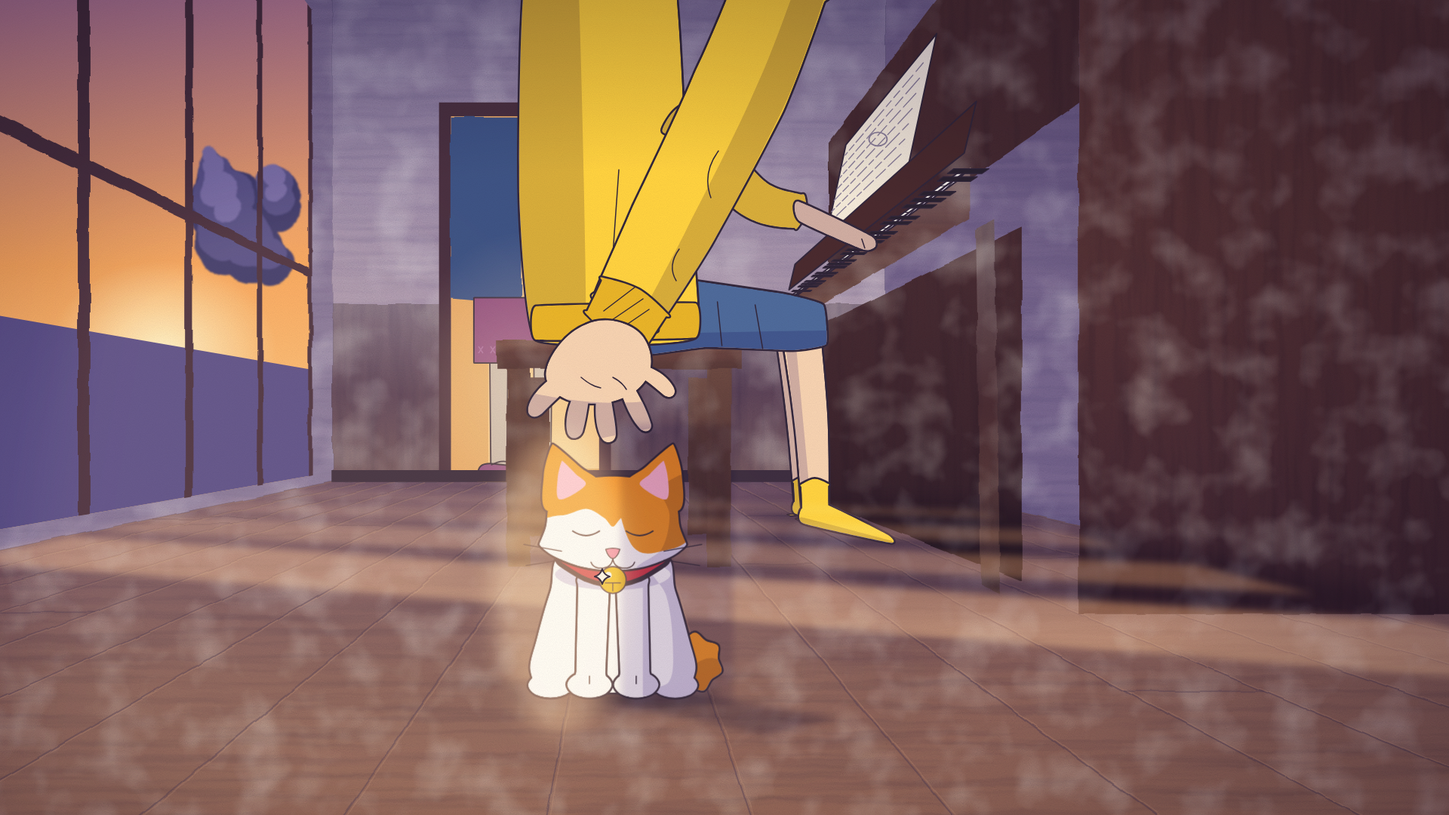
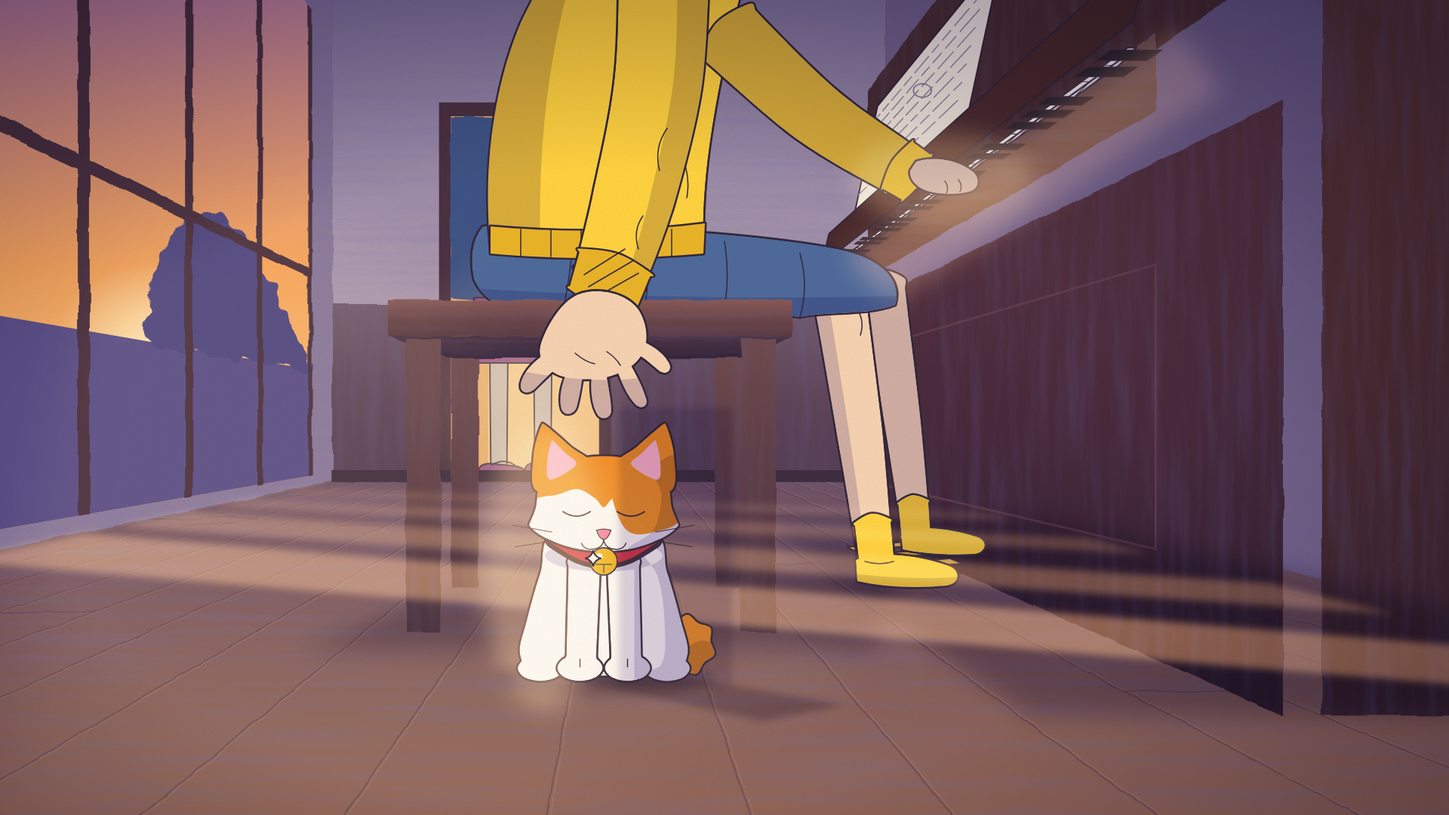
docs: final preview frames after art-director fix pass, gallery page
Claude-Session: https://claude.ai/code/session_01K9BzCtu5ca2nRxDXecreHZ

diff --git a/design/previews/10-home-evening.html b/design/previews/10-home-evening.html
@@ -23,7 +23,12 @@ const K = Kit, C = K.C, W = 1920, H = 1080, HZ = 560, F = 1100, CX = 820, EYE = 
 const P = (X, Y, d) => [CX + X * F / d, HZ - (Y - EYE) * F / d];
 const pd = (pts) => 'M' + pts.map((p) => { const q = P(...p); return q[0].toFixed(1) + ' ' + q[1].toFixed(1); }).join('L') + 'Z';
 const G = { lw: 2.5, ol: K.OUTLINES.ink };
-const paint = (pts, color, o) => K.surface(Object.assign({ d: pd(pts), box: (() => { const q = pts.map((p) => P(...p)); const xs = q.map((p) => p[0]), ys = q.map((p) => p[1]); return { x: Math.min(...xs), y: Math.min(...ys), w: Math.max(...xs) - Math.min(...xs), h: Math.max(...ys) - Math.min(...ys) }; })(), color, grime: 0, tex: 'brush', texOpacity: 0.22, wobble: true }, o || {}));
+let _pid = 0;
+/** Painted, unlined surface: vertical gradient + brush grain + hand wobble (E-1/E-2). */
+const paint = (pts, color, o) => { o = o || {}; const q = pts.map((p) => P(...p)); const ys = q.map((p) => p[1]), xs = q.map((p) => p[0]);
+  const y0 = Math.min(...ys), y1 = Math.max(...ys), x0 = Math.min(...xs), x1 = Math.max(...xs), id = 'pg' + (++_pid), d = pd(pts);
+  const g = `<linearGradient id="${id}" gradientUnits="userSpaceOnUse" x1="0" y1="${y0}" x2="0" y2="${y1}"><stop offset="0" stop-color="${o.top || K.mix(color, '#FFFFFF', 0.12)}"/><stop offset="0.55" stop-color="${color}"/><stop offset="1" stop-color="${o.bottom || K.mix(color, '#2A2040', 0.2)}"/></linearGradient>`;
+  return `<g filter="url(#k-rough)">${g}<path d="${d}" fill="url(#${id})"/>${K.clipTo(d, K.texture(x0 - 10, y0 - 10, x1 - x0 + 20, y1 - y0 + 20, o.tex || 'brush', o.texOpacity == null ? 0.2 : o.texOpacity) + K.texture(x0 - 10, y0 - 10, x1 - x0 + 20, y1 - y0 + 20, 'grain', 0.12))}</g>`; };
 const s = [];
 const LW = -1.45, RW = 1.35, BW = 4.2;   // left wall, right wall (X), back wall (d)
 
@@ -56,7 +61,7 @@ s.push(`<linearGradient id="dusk" x1="0" y1="0" x2="0" y2="1"><stop offset="0" s
 s.push(`<path d="${pd([[LW, 2.25, gz0], [LW, 2.25, gz1], [LW, 0.05, gz1], [LW, 0.05, gz0]])}" fill="url(#dusk)"/>`);
 { const a = P(LW, 0.5, 2.6); s.push(K.glow(a[0] + 10, a[1] - 10, 150, 120, '#FFE2A8', 0.9)); }                      // the low sun
 s.push(`<path d="${pd([[LW, 0.55, gz0], [LW, 0.55, gz1], [LW, 0.05, gz1], [LW, 0.05, gz0]])}" fill="#5A4E86"/>`);           // garden wall, blue
-{ const a = P(LW, 1.1, 3.2); s.push(K.foliage({ x: a[0], y: a[1], w: 170, h: 200, seed: 7, far: true, tones: { dark: '#3E3A6A', mid: '#575086', light: '#7A6EA6' } })); }
+{ const q = [[LW, 0.55, 2.55], [LW, 0.82, 2.62], [LW, 1.0, 2.8], [LW, 1.06, 3.05], [LW, 0.98, 3.3], [LW, 0.86, 3.5], [LW, 0.7, 3.7], [LW, 0.55, 3.85]].map((p) => P(...p)); s.push(`<path d="${K.blob(q, true, 0.5)}" fill="#4E4680" filter="url(#k-leaf)"/>`); }
 let gf = ''; for (let i = 0; i <= 4; i++) { const z = gz0 + (gz1 - gz0) * i / 4; gf += `<path d="${pd([[LW, 2.25, z - 0.025], [LW, 2.25, z + 0.025], [LW, 0.05, z + 0.025], [LW, 0.05, z - 0.025]])}" fill="#4A3040"/>`; }
 gf += `<path d="${pd([[LW, 1.02, gz0], [LW, 1.02, gz1], [LW, 0.98, gz1], [LW, 0.98, gz0]])}" fill="#4A3040"/>`;
 s.push(`<g filter="url(#k-rough)">${gf}</g>`);
@@ -72,21 +77,22 @@ s.push(`<path d="${pd([[LW, 0.06, BW - 0.01], [RW, 0.06, BW - 0.01], [RW, 0, BW 
 
 /* right wall + the upright piano against it, keyboard facing us-left (painted case; lid and keys inked) */
 s.push(paint([[RW, 2.6, 0.6], [RW, 2.6, BW], [RW, 0, BW], [RW, 0, 0.6]], '#6E5E84', { top: '#5A4E74', bottom: '#7A6890' }));
-const PF = 0.72, KF = 0.58, PZ0 = 1.3, PZ1 = 2.85;   // piano front face X, key front X, near/far ends (d)
+const PF = 0.72, KF = 0.58, PZ0 = 0.85, PZ1 = 2.4;   // piano front face X, key front X, near/far ends (d)
 // case: near side panel, front faces, top
 s.push(paint([[PF, 1.26, PZ0], [RW, 1.26, PZ0], [RW, 0, PZ0], [PF, 0, PZ0]], '#5A3436', { top: '#6E4240', bottom: '#3E2430', tex: 'brush-v', texOpacity: 0.3 }));
 s.push(paint([[PF, 1.26, PZ0], [PF, 1.26, PZ1], [PF, 0.8, PZ1], [PF, 0.8, PZ0]], '#4E2E34', { top: '#5E3838', bottom: '#40262E', tex: 'brush-v', texOpacity: 0.25 }));
-s.push(paint([[PF - 0.06, 0.62, PZ0 + 0.06], [PF - 0.06, 0.62, PZ1 - 0.06], [PF - 0.06, 0.04, PZ1 - 0.06], [PF - 0.06, 0.04, PZ0 + 0.06]], '#40262E', { top: '#4A2C32', bottom: '#2E1C28', tex: 'brush-v', texOpacity: 0.25 }));
+s.push(paint([[PF - 0.04, 0.63, PZ0], [PF - 0.04, 0.63, PZ1], [PF - 0.04, 0, PZ1], [PF - 0.04, 0, PZ0]], '#46283A', { top: '#5A3440', bottom: '#2E1C2C', tex: 'brush-v', texOpacity: 0.25 }));
+s.push(`<path d="${pd([[PF - 0.041, 0.5, PZ0 + 0.2], [PF - 0.041, 0.5, PZ1 - 0.15], [PF - 0.041, 0.14, PZ1 - 0.15], [PF - 0.041, 0.14, PZ0 + 0.2]])}" fill="none" stroke="#6A4250" stroke-width="3" opacity="0.7"/>`);
 // the keybed slab under the keys
 s.push(paint([[KF - 0.03, 0.7, PZ0], [KF - 0.03, 0.7, PZ1], [KF - 0.03, 0.62, PZ1], [KF - 0.03, 0.62, PZ0]], '#5E3A3A', { tex: 'brush', texOpacity: 0.2 }));
 // legs at the treble and bass ends
-[PZ0 + 0.04, PZ1 - 0.04].forEach((d) => s.push(paint([[KF + 0.01, 0.62, d - 0.035], [KF + 0.01, 0.62, d + 0.035], [KF + 0.02, 0.03, d + 0.035], [KF + 0.02, 0.03, d - 0.035]], '#4A2C32', { tex: 'brush-v' })));
+
 // music stand + the Scribble score with a pencil circle on one bar
-{ const sp = [[PF - 0.05, 1.12, 1.75], [PF - 0.05, 1.12, 2.45], [PF - 0.11, 0.84, 2.45], [PF - 0.11, 0.84, 1.75]];
+{ const sp = [[PF - 0.05, 1.12, 1.45], [PF - 0.05, 1.12, 2.15], [PF - 0.11, 0.84, 2.15], [PF - 0.11, 0.84, 1.45]];
   s.push(K.inked(pd(sp), '#F4EAD8', 2));
   let sm = ''; const R = K.rng(17);
-  for (let r = 0; r < 7; r++) { const y = 1.08 - r * 0.033; let d = 1.8; while (d < 2.4) { const l = 0.03 + R() * 0.07, a = P(PF - 0.06 - r * 0.008, y, d), b = P(PF - 0.06 - r * 0.008, y, Math.min(2.42, d + l)); sm += `<path d="M${a[0].toFixed(1)} ${a[1].toFixed(1)}L${b[0].toFixed(1)} ${b[1].toFixed(1)}" stroke="#8C8098" stroke-width="1.4" stroke-linecap="round"/>`; d += l + 0.02; } }
-  const pc = P(PF - 0.08, 1.0, 2.05); sm += `<ellipse cx="${pc[0]}" cy="${pc[1]}" rx="12" ry="9" fill="none" stroke="#8C8098" stroke-width="1.8"/>`;
+  for (let r = 0; r < 7; r++) { const y = 1.08 - r * 0.033; let d = 1.5; while (d < 2.1) { const l = 0.03 + R() * 0.07, a = P(PF - 0.06 - r * 0.008, y, d), b = P(PF - 0.06 - r * 0.008, y, Math.min(2.12, d + l)); sm += `<path d="M${a[0].toFixed(1)} ${a[1].toFixed(1)}L${b[0].toFixed(1)} ${b[1].toFixed(1)}" stroke="#8C8098" stroke-width="1.4" stroke-linecap="round"/>`; d += l + 0.02; } }
+  const pc = P(PF - 0.08, 1.0, 1.75); sm += `<ellipse cx="${pc[0]}" cy="${pc[1]}" rx="12" ry="9" fill="none" stroke="#8C8098" stroke-width="1.8"/>`;
   s.push(sm); }
 // fallboard (open), keys: inked — the only inked parts of the piano (L-1)
 s.push(K.inked(pd([[PF - 0.13, 0.83, PZ0 + 0.07], [PF - 0.13, 0.83, PZ1 - 0.07], [PF - 0.15, 0.745, PZ1 - 0.07], [PF - 0.15, 0.745, PZ0 + 0.07]]), '#4A2A2E', 2));
@@ -99,65 +105,65 @@ s.push(keys);
 // shadow pooled under the piano (Shadow Wisteria, never grey)
 s.push(K.castShadow(pd([[PF - 0.3, 0, PZ0], [RW, 0, PZ0], [RW, 0, PZ1 + 0.2], [PF - 0.3, 0, PZ1 + 0.2]]), 0.5, 'soft2'));
 // the pedals, brass, catching a little light
-[1.95, 2.05, 2.15].forEach((d) => s.push(K.inked(pd([[KF - 0.02, 0.07, d - 0.025], [KF - 0.02, 0.07, d + 0.025], [KF - 0.14, 0.06, d + 0.02], [KF - 0.14, 0.06, d - 0.02]]), '#C99A4A', 1.6)));
+[1.38, 1.48, 1.58].forEach((d) => s.push(K.inked(pd([[KF - 0.02, 0.07, d - 0.025], [KF - 0.02, 0.07, d + 0.025], [KF - 0.14, 0.06, d + 0.02], [KF - 0.14, 0.06, d - 0.02]]), '#C99A4A', 1.6)));
 
-/* the piano bench (painted wood), Haru sitting side-on to us */
-const BX0 = -0.25, BX1 = 0.25, BD0 = 1.7, BD1 = 2.25, BY = 0.47;
-s.push(K.castShadow(pd([[BX0 - 0.1, 0, BD0 - 0.1], [BX1 + 0.1, 0, BD0 - 0.1], [BX1 + 0.3, 0, BD1 + 0.2], [BX0, 0, BD1 + 0.2]]), 0.5, 'soft2'));
-[[BX0 + 0.04, BD0 + 0.04], [BX1 - 0.04, BD0 + 0.04], [BX0 + 0.04, BD1 - 0.04], [BX1 - 0.04, BD1 - 0.04]].sort((a, b) => b[1] - a[1]).forEach(([x, d]) => s.push(paint([[x - 0.025, BY - 0.05, d], [x + 0.025, BY - 0.05, d], [x + 0.025, 0, d], [x - 0.025, 0, d]], '#5A3A38', { tex: 'brush-v', top: '#6E4A42', bottom: '#4A2E30' })));
-s.push(paint([[BX0, BY - 0.06, BD0], [BX1, BY - 0.06, BD0], [BX1, BY, BD0], [BX0, BY, BD0]], '#6A4440', { top: '#8A5E50', bottom: '#5A3A38' }));
+/* the piano bench (painted wood), Haru sitting side-on to us; we look up at its underside */
+const BX0 = -0.32, BX1 = 0.24, BD0 = 1.15, BD1 = 1.55, BY = 0.47;
+s.push(K.castShadow(pd([[BX0 - 0.1, 0, BD0 - 0.05], [BX1 + 0.1, 0, BD0 - 0.05], [BX1 + 0.35, 0, BD1 + 0.2], [BX0 + 0.1, 0, BD1 + 0.2]]), 0.5, 'soft2'));
+const benchLeg = (x, d) => paint([[x - 0.025, BY - 0.05, d], [x + 0.025, BY - 0.05, d], [x + 0.025, 0, d], [x - 0.025, 0, d]], '#5A3A44', { tex: 'brush-v', top: '#6E4A4C', bottom: '#3E2838' });
+s.push(benchLeg(BX0 + 0.04, BD1 - 0.04) + benchLeg(BX1 - 0.04, BD1 - 0.04));
+s.push(paint([[BX0, BY - 0.05, BD0], [BX1, BY - 0.05, BD0], [BX1, BY - 0.05, BD1], [BX0, BY - 0.05, BD1]], '#3E2A3C', { top: '#4A3242', bottom: '#33243A' }));   // underside, in shade
 
-/* =============================== Haru: legs, hem, hands (inked cels) =============================== */
+/* =============================== Haru: legs, hem, hands (inked cels, hand-drawn on the projected anchors) =============================== */
 const HP = { skin: '#F6D2B0', card: C.haru, cardS: '#E9B428', skirt: '#4E6A9A', sock: C.haru };
-const A = (X, Y, d) => P(X, Y, d);
-// far (right) leg: shin down to the foot resting on the soft pedal, partly behind the near leg
-{ const k = A(0.44, 0.5, 2.08), an = A(0.47, 0.09, 2.08), ft = A(0.56, 0.04, 2.08);
-  s.push(K.celGroup({ parts: [{ d: K.tube([k, [(k[0] + an[0]) / 2 + 3, (k[1] + an[1]) / 2], an], [46, 40, 30], { capRound: 0.5 }), fill: HP.skin }], shadeAll: true }, G));
-  s.push(K.celGroup({ parts: [{ d: K.tube([[an[0] - 1, an[1] - 34], an], [32, 30], { capRound: 0.4 }), fill: HP.sock }, { d: K.blob([[an[0] - 16, an[1] - 6], [an[0] + 10, an[1] - 12], [ft[0] + 18, ft[1] - 8], [ft[0] + 22, ft[1] + 2], [an[0] - 14, an[1] + 10]], true, 0.5), fill: HP.sock }], shadeAll: true }, G)); }
-// skirt over the thighs, hem at the knee; near leg: knee, shin, yellow sock, foot flat on the boards
-{ const hip = A(-0.02, 0.52, 1.95), kn = A(0.42, 0.52, 1.92), an = A(0.45, 0.09, 1.9), ft = A(0.58, 0.03, 1.9);
-  s.push(K.celGroup({ parts: [{ d: K.tube([kn, [(kn[0] + an[0]) / 2 + 4, (kn[1] + an[1]) / 2], an], [52, 44, 34], { capRound: 0.5 }), fill: HP.skin }], shade: K.tube([[kn[0] - 14, kn[1] + 10], [an[0] - 10, an[1]]], [14, 10]), lines: [K.blob([[kn[0] + 12, kn[1] + 4], [kn[0] + 16, kn[1] + 18]], false)] }, G));
-  s.push(K.celGroup({ parts: [{ d: K.tube([[an[0] - 1, an[1] - 40], an], [36, 34], { capRound: 0.4 }), fill: HP.sock }, { d: K.blob([[an[0] - 18, an[1] - 8], [an[0] + 12, an[1] - 14], [ft[0] + 20, ft[1] - 8], [ft[0] + 24, ft[1] + 3], [an[0] - 16, an[1] + 12]], true, 0.5), fill: HP.sock }], shade: K.blob([[an[0] - 18, an[1] + 4], [ft[0] + 24, ft[1]], [ft[0] + 24, ft[1] + 6], [an[0] - 18, an[1] + 14]], true, 0.3) }, G));
-  // the skirt: navy-blue pleats from the seat to just past the knee
-  const sk = [[hip[0] - 40, hip[1] - 80], [kn[0] - 30, kn[1] - 46], [kn[0] + 30, kn[1] - 30], [kn[0] + 34, kn[1] + 22], [kn[0] - 10, kn[1] + 30], [(hip[0] + kn[0]) / 2, kn[1] + 26], [hip[0] - 30, hip[1] + 40]];
-  s.push(K.celGroup({ parts: [{ d: K.blob(sk, true, 0.35), fill: HP.skirt }], shade: K.blob([[hip[0] - 60, hip[1] + 10], [kn[0] + 40, kn[1] + 4], [kn[0] + 40, kn[1] + 40], [hip[0] - 60, hip[1] + 50]], true, 0.2), lines: [K.blob([[kn[0] - 60, kn[1] - 30], [kn[0] - 50, kn[1] + 28]], false), K.blob([[kn[0] - 110, kn[1] - 34], [kn[0] - 104, kn[1] + 24]], false)] }, G)); }
-// her torso rises out of frame; only the cardigan's lower back and hip show above the bench
-{ const t = [A(-0.2, 0.5, 2.0), A(0.18, 0.5, 1.95), A(0.16, 0.85, 1.95), A(0.12, 1.4, 1.95), A(-0.22, 1.4, 2.0), A(-0.24, 0.85, 2.0)];
-  s.push(K.celGroup({ parts: [{ d: K.blob(t, true, 0.35), fill: HP.card }], shade: K.blob([A(-0.24, 0.5, 2.0), A(-0.08, 0.5, 2.0), A(-0.1, 1.4, 2.0), A(-0.26, 1.4, 2.0)], true, 0.2), lines: [K.blob([A(-0.02, 0.62, 1.98), A(0.0, 0.9, 1.97)], false)] }, G));
-  s.push(K.celGroup({ parts: [{ d: K.blob([A(-0.2, 0.58, 2.0), A(0.18, 0.58, 1.95), A(0.18, 0.5, 1.95), A(-0.2, 0.5, 2.0)], true, 0.2), fill: HP.cardS }] }, G)); }
-// far hand still resting on the keys: the Piece has paused mid-phrase
-{ const w = A(0.45, 0.82, 2.05), h0 = A(0.62, 0.745, 2.08);
-  s.push(K.celGroup({ parts: [{ d: K.tube([A(0.15, 1.05, 2.02), A(0.32, 0.86, 2.04), w], [62, 54, 44], { capRound: 0.3 }), fill: HP.card }], shadeAll: true }, G));
-  s.push(K.celGroup({ parts: [{ d: K.blob([[w[0] - 4, w[1] - 14], [h0[0] + 6, h0[1] - 12], [h0[0] + 12, h0[1] + 2], [h0[0] - 4, h0[1] + 6], [w[0] - 2, w[1] + 12]], true, 0.5), fill: HP.skin }], shadeAll: true, lines: [K.blob([[h0[0] - 6, h0[1] - 8], [h0[0] - 2, h0[1] + 4]], false)] }, G)); }
-// near arm: down out of the top of frame, foreshortened toward us, the hand open, palm-down, slowing above Mikan
-const hand = { x: 780, y: 470 };
-s.push(K.celGroup({ parts: [{ d: K.tube([[1040, -30], [980, 120], [890, 300], [826, 418]], [120, 128, 116, 92], { capRound: 0.3 }), fill: HP.card }],
-  shade: K.tube([[1080, -30], [1024, 120], [934, 300], [866, 420]], [40, 44, 40, 30]), lines: ['M952 200Q930 230 942 262', 'M900 330Q884 352 896 372'] }, G));
-s.push(K.celGroup({ parts: [{ d: K.tube([[842, 392], [816, 438]], [98, 90], { capRound: 0.2 }), fill: HP.cardS }], lines: ['M800 412L842 380', 'M808 426L852 396', 'M816 440L860 410'] }, G));
-// the hand: back of the hand toward us, fingers relaxed and spread a little, tips just curling down
-s.push(K.celGroup({ parts: [
-  { d: 'M776 430C800 418 836 426 852 446C866 466 866 490 854 506C844 520 828 528 812 532C800 536 770 536 752 530C732 522 720 506 724 490C728 470 750 440 776 430Z', fill: HP.skin },
-  { d: 'M738 496C722 506 704 522 700 540C698 552 708 556 718 548C728 538 742 524 752 516Z', fill: HP.skin },
-  { d: 'M760 524C752 540 748 560 752 574C756 584 768 582 772 572C776 558 778 544 780 530Z', fill: HP.skin },
-  { d: 'M790 530C788 548 790 570 798 582C804 590 816 586 816 576C816 562 812 546 810 530Z', fill: HP.skin },
-  { d: 'M824 524C830 540 838 558 848 568C856 576 866 570 862 560C858 546 850 530 842 516Z', fill: HP.skin },
-  { d: 'M852 484C868 488 884 498 892 512C898 522 890 530 880 524C870 516 860 506 848 500Z', fill: HP.skin }],
-  shade: 'M700 520C740 528 800 540 870 530L900 560L700 600Z', lines: ['M770 500Q784 512 796 514', 'M812 500Q824 506 830 516'] }, G));
+// far (right) leg: shin to the foot resting on the soft pedal
+s.push(K.celGroup({ parts: [{ d: K.tube([[1170, 372], [1196, 560], [1214, 706]], [56, 48, 36], { capRound: 0.5 }), fill: HP.skin }], shadeAll: true }, G));
+s.push(K.celGroup({ parts: [{ d: K.tube([[1210, 664], [1214, 712]], [40, 38], { capRound: 0.4 }), fill: HP.sock }, { d: 'M1194 704C1220 696 1260 700 1296 712C1310 718 1306 732 1292 734C1260 736 1222 734 1196 728Z', fill: HP.sock }], shadeAll: true }, G));
+// near leg: knee, shin, yellow sock, foot flat on the boards
+s.push(K.celGroup({ parts: [{ d: K.tube([[1112, 390], [1140, 580], [1160, 740]], [70, 60, 44], { capRound: 0.5 }), fill: HP.skin }], shade: K.tube([[1088, 400], [1118, 580], [1142, 740]], [20, 16, 12]), lines: ['M1136 410Q1146 426 1140 444'] }, G));
+s.push(K.celGroup({ parts: [{ d: K.tube([[1156, 690], [1162, 748]], [48, 46], { capRound: 0.4 }), fill: HP.sock }, { d: 'M1134 742C1164 730 1214 734 1258 750C1274 756 1272 774 1254 776C1214 780 1170 778 1136 770Z', fill: HP.sock }], shade: 'M1130 760C1180 766 1230 768 1276 764V790H1130Z', lines: ['M1146 744Q1166 750 1184 744'] }, G));
+// the skirt: navy pleats over the thighs from the bench to just past the knee
+s.push(K.celGroup({ parts: [{ d: 'M640 300C760 296 980 306 1110 330C1170 342 1196 372 1186 404C1150 418 1100 412 1060 420C1010 412 960 422 910 416C850 424 790 418 730 422C680 420 640 400 628 370C622 340 626 316 640 300Z', fill: HP.skirt }],
+  shade: 'M600 380C760 392 1000 398 1200 392V440H600Z', lines: ['M1060 336Q1072 380 1060 420', 'M960 320Q968 372 958 418', 'M860 316Q862 370 852 420', 'M760 312Q756 368 744 420'] }, G));
+// her torso: the cardigan leans in toward the keys and rises out of the top of frame
+s.push(K.celGroup({ parts: [{ d: 'M650 330C640 230 652 120 690 30C704 0 716 -20 728 -40L992 -40C980 -10 972 30 960 80C944 160 930 240 932 320C840 336 740 338 650 330Z', fill: HP.card }],
+  shade: 'M630 -40H760C730 60 712 180 716 334L630 334Z', lines: ['M842 40C832 120 828 220 836 320', 'M900 200Q916 230 910 262'] }, G));
+s.push(K.celGroup({ parts: [{ d: 'M650 300C740 308 840 308 934 296L932 336C840 344 740 344 650 336Z', fill: HP.cardS }], lines: [690, 730, 770, 810, 850, 890].map((x) => `M${x} 304V340`) }, G));
+// far arm out to the keys; the hand rests there, still (the Piece has paused mid-phrase)
+s.push(K.celGroup({ parts: [{ d: K.tube([[960, 40], [1080, 150], [1196, 226]], [96, 84, 70], { capRound: 0.3 }), fill: HP.card }], shadeAll: true }, G));
+s.push(K.celGroup({ parts: [{ d: K.tube([[1188, 218], [1216, 236]], [74, 70], { capRound: 0.2 }), fill: HP.cardS }] }, G));
+s.push(K.celGroup({ parts: [{ d: 'M1214 214C1240 206 1270 212 1290 228C1300 238 1296 252 1284 254C1270 258 1248 258 1232 254C1216 250 1204 238 1206 226Z', fill: HP.skin }], shadeAll: true, lines: ['M1252 240Q1258 248 1254 256', 'M1270 238Q1276 246 1272 254'] }, G));
+// the near bench legs come down in front of her legs (painted)
+s.push(benchLeg(BX0 + 0.04, BD0 + 0.04) + benchLeg(BX1 - 0.04, BD0 + 0.04));
+s.push(paint([[BX0, BY, BD0], [BX1, BY, BD0], [BX1, BY - 0.05, BD0], [BX0, BY - 0.05, BD0]], '#6A4448', { top: '#8A5A54', bottom: '#5A3A42' }));
 
+// near arm: from her shoulder straight down in front of her, the forearm turning toward us
+s.push(K.celGroup({ parts: [{ d: K.tube([[880, -40], [872, 110], [840, 260], [806, 372]], [120, 116, 108, 92], { capRound: 0.3 }), fill: HP.card }],
+  shade: K.tube([[918, -40], [912, 110], [880, 260], [846, 372]], [40, 40, 36, 30]), lines: ['M884 170Q866 196 874 226', 'M852 286Q838 306 846 330'] }, G));
+s.push(K.celGroup({ parts: [{ d: K.tube([[816, 346], [798, 398]], [100, 92], { capRound: 0.2 }), fill: HP.cardS }], lines: ['M774 364L828 330', 'M780 380L838 346', 'M786 396L846 362'] }, G));
+// the hand: open, palm-down, slowing just above Mikan's head — back of the hand toward us, fingers soft
+s.push(K.celGroup({ parts: [
+  { d: 'M766 390C792 380 830 388 846 410C860 432 860 458 848 474C838 488 820 496 804 500C790 504 760 504 742 498C722 490 712 474 716 458C722 436 742 400 766 390Z', fill: HP.skin },
+  { d: 'M730 464C712 474 694 490 690 508C688 520 698 524 708 516C718 506 732 492 742 484Z', fill: HP.skin },
+  { d: 'M752 492C744 508 740 528 744 542C748 552 760 550 764 540C768 526 770 512 772 498Z', fill: HP.skin },
+  { d: 'M784 498C782 516 784 538 792 550C798 558 810 554 810 544C810 530 806 514 804 498Z', fill: HP.skin },
+  { d: 'M818 492C824 508 832 526 842 536C850 544 860 538 856 528C852 514 844 498 836 484Z', fill: HP.skin },
+  { d: 'M846 450C862 456 878 466 886 480C892 490 884 498 874 492C864 484 854 474 842 468Z', fill: HP.skin }],
+  shade: 'M690 492C740 500 800 510 870 498L900 540L690 580Z', lines: ['M762 468Q776 480 788 482', 'M804 466Q816 474 822 484'] }, G));
 /* =============================== Mikan, at her feet on the boards =============================== */
-const mk = { x: 812, y: 922, sc: 2.95 };
+const mk = { x: 800, y: 900, sc: 3.0 };
 // the low Dusk light lies across the boards in long window-pane bars, one of them over Mikan
 const bar = (d0, d1, z0, z1) => { const a = P(LW, 0, z0), b = P(LW, 0, z1), c = P(RW * 0.9, 0, d1), e = P(RW * 0.9, 0, d0); return `M${a[0]} ${a[1]}L${b[0]} ${b[1]}L${c[0]} ${c[1]}L${e[0]} ${e[1]}Z`; };
-s.push(`<g style="mix-blend-mode:screen" filter="url(#k-soft)" opacity="0.85"><path d="${bar(0.9, 1.25, 1.8, 2.2)}" fill="#F7A45A" opacity="0.55"/><path d="${bar(1.45, 1.75, 2.3, 2.7)}" fill="#F7A45A" opacity="0.4"/><path d="${bar(2.0, 2.3, 2.8, 3.2)}" fill="#F7A45A" opacity="0.3"/><path d="${bar(2.6, 2.85, 3.3, 3.75)}" fill="#F7A45A" opacity="0.22"/></g>`);
-s.push(K.castShadow(`M${mk.x - 60} ${mk.y - 4}L${mk.x + 70} ${mk.y - 8}L${mk.x + 300} ${mk.y + 30}L${mk.x + 200} ${mk.y + 52}Z`, 0.45));
+s.push(`<g style="mix-blend-mode:screen" filter="url(#k-soft)"><path d="${bar(0.86, 1.08, 1.8, 2.25)}" fill="#F7A45A" opacity="0.5"/><path d="${bar(1.3, 1.55, 2.4, 2.8)}" fill="#F7A45A" opacity="0.36"/><path d="${bar(1.9, 2.15, 2.95, 3.3)}" fill="#F7A45A" opacity="0.26"/><path d="${bar(2.55, 2.75, 3.45, 3.8)}" fill="#F7A45A" opacity="0.2"/></g>`);
+s.push(K.castShadow(`M${mk.x - 60} ${mk.y - 4}L${mk.x + 70} ${mk.y - 8}L${mk.x + 320} ${mk.y + 34}L${mk.x + 210} ${mk.y + 56}Z`, 0.45));
 s.push(K.cat({ ...K.CAST.mikan, pose: 'front-sit', expr: 'sleepy', x: mk.x, y: mk.y, scale: mk.sc }));
-// warm light lands on Mikan's sunward (left) side; the far side stays in cool room shade
-s.push(`<g style="mix-blend-mode:multiply" opacity="0.32"><path d="M${mk.x + 10} ${mk.y - 360}H${mk.x + 160}V${mk.y + 10}H${mk.x + 10}Z" fill="#7A6AB8" filter="url(#k-soft)"/></g>`);
-s.push(`<g style="mix-blend-mode:screen" opacity="0.5"><ellipse cx="${mk.x - 70}" cy="${mk.y - 150}" rx="90" ry="200" fill="#FFB870" filter="url(#k-soft2)"/></g>`);
-// the bell: one small glint (the four-point sparkle the bible allows; no flash)
-s.push(K.sparkle({ x: mk.x - 14, y: mk.y - 158, r: 10, lw: 2 }));
+// warm light on Mikan's sunward (left) side; the far side in cool room shade (light, not an effect)
+s.push(`<g style="mix-blend-mode:multiply" opacity="0.3"><path d="M${mk.x + 20} ${mk.y - 360}H${mk.x + 170}V${mk.y + 10}H${mk.x + 20}Z" fill="#7A6AB8" filter="url(#k-soft)"/></g>`);
+s.push(`<g style="mix-blend-mode:screen" opacity="0.45"><ellipse cx="${mk.x - 80}" cy="${mk.y - 150}" rx="80" ry="190" fill="#FFB870" filter="url(#k-soft2)"/></g>`);
+s.push(K.sparkle({ x: mk.x - 14, y: mk.y - 160, r: 10, lw: 2 }));
 
 /* =============================== atmosphere =============================== */
+s.push(`<g style="mix-blend-mode:screen" filter="url(#k-soft2)"><path d="M1120 340L1560 40L1620 120L1180 400Z" fill="#F7A45A" opacity="0.35"/><ellipse cx="1250" cy="236" rx="120" ry="60" fill="#FFC27A" opacity="0.35"/></g>`);
 // a warm shaft of dusk air from the glass, very soft; cool violet in the corners (never black)
 s.push(`<path d="M120 300L420 260L1150 900L700 1080L0 1080Z" fill="#FFC27A" opacity="0.08" filter="url(#k-soft3)" style="mix-blend-mode:screen"/>`);
 s.push(`<radialGradient id="vig" cx="0.42" cy="0.6" r="0.78"><stop offset="0.5" stop-color="#4A3E7A" stop-opacity="0"/><stop offset="1" stop-color="#4A3E7A" stop-opacity="0.55"/></radialGradient><rect width="${W}" height="${H}" fill="url(#vig)" style="mix-blend-mode:multiply"/>`);

diff --git a/design/previews/08-turf-board.html b/design/previews/08-turf-board.html
@@ -23,6 +23,7 @@
   .stamp .rw .fish { display: inline-flex; align-items: center; gap: 2px; color: var(--cocoa); }
   .stamp.sel { border-color: var(--ink); box-shadow: 0 0 0 5px var(--gold), 0 0 0 8px var(--ink), var(--drop); }
   .stamp.den { border-color: var(--ink); }
+  .stamp.mini { padding: 5px 14px 5px 8px; border-radius: 24px 28px 25px 29px; }
   .num { font: 800 30px/1 var(--font); }
   .crack { display: inline-flex; align-items: center; gap: 4px; padding: 2px 10px 2px 6px; border-radius: 14px; background: var(--ink); color: var(--cream); font: 800 28px/1 var(--font); }
 
@@ -65,11 +66,13 @@
 <body>
 <div class="k-stage" id="stage"></div>
 <script src="kit/kit.js"></script>
+<script src="rival-helpers.js"></script>
 <script>
 /* FRAME 08 — THE TURF BOARD. Life 2, the Lot at Dusk. The view from the kei-truck roof: the Lane's
  * painted map is pinned to the Lot's weathered plank fence, Crew portraits hang from clothes-pegs.
  * State shown: all four outer Patches held, the Den OPEN (3/4), Pon (Goofball) posted at Laundry Pole
- * Yard, a Wall Sitter Captain (Goma) forecast to raid Tofu Shop Step tonight, and the player carrying
+ * Yard, Togemaru (the Lane's Nemesis, rival-helpers.js design) forecast to raid Tofu Shop Step tonight; Kagi
+ * (recruited at the Verdict, frame 07) is in the Posse. The player is carrying
  * Hige (Stalwart) over that Patch: the drop preview is open. Numbers: territory-management.md §3.1/§3.2. */
 const K = Kit, C = K.C, W = 1920, H = 1080;
 const s = [];
@@ -101,10 +104,9 @@ const CREW = {
   hige: { name: 'Hige', pers: 'Stalwart', cat: { ...K.CAST.oldWallCat, carry: 'post', expr: 'neutral' } },
   pon: { name: 'Pon', pers: 'Goofball', cat: { ...K.CAST.goofball } },
   kinako: { name: 'Kinako', pers: 'Fraidy', cat: { ...K.CAST.fraidy } },
-  kagi: { name: 'Kagi', pers: 'Schemer', cat: { ...K.CAST.schemer } },
-  toge: { name: 'Togemaru', pers: 'Braggart', cat: { ...K.CAST.braggart } },
+  kagi: { name: 'Kagi', pers: 'Schemer', cat: { ...RV.CAST.kagi } },
 };
-const GOMA = { coat: 'charcoal', pattern: 'tabby', ears: 'tall', build: 'standard', eye: 'yellowgreen', expr: 'angry', tail: 'whip', scars: ['notch'] };
+const TOGE = { ...RV.CAST.togemaru, expr: 'angry' };   // the Nemesis: same design as frames 05–06
 const portrait = (cat, size, ring) => K.ui.portrait({ cat, size, ring: ring || C.cocoa });
 
 /* =====================================================================================
@@ -202,8 +204,9 @@ const PATCH = {
 };
 const smooth = (pts) => K.blob(pts, true, 0.25);
 const terr = (pts, col, op, sel) => `<path d="${smooth(pts)}" fill="${col}" opacity="${op}" style="mix-blend-mode:${sel ? 'screen' : 'multiply'}"/>`;
-map += terr(PATCH.DEN, '#C9DCA0', 0.32) + terr(PATCH.TSS, '#FFE7A3', 0.5, true);
-const border = (pts, col) => `<path d="${smooth(pts)}" fill="none" stroke="${C.cream}" stroke-width="9" stroke-linejoin="round" opacity="0.85"/><path d="${smooth(pts)}" fill="none" stroke="${col}" stroke-width="5" stroke-dasharray="2 13" stroke-linecap="round" stroke-linejoin="round"/>`;
+['LPY', 'PA', 'LWC', 'TSS'].forEach((k) => { map += `<path d="${smooth(PATCH[k])}" fill="${C.gold}" opacity="${k === 'TSS' ? 0.42 : 0.32}"/>`; });
+map += `<path d="${smooth(PATCH.DEN)}" fill="#C9DCA0" opacity="0.55"/>`;
+const border = (pts, col) => `<path d="${smooth(pts)}" fill="none" stroke="${C.cream}" stroke-width="10" stroke-linejoin="round" opacity="0.9"/><path d="${smooth(pts)}" fill="none" stroke="${col}" stroke-width="4.5" stroke-linejoin="round"/>`;
 ['LPY', 'PA', 'LWC', 'TSS'].forEach((k) => { map += border(PATCH[k], C.gold); });
 map += border(PATCH.DEN, '#7FA34A');
 // the selected Patch gets a thick bell-gold edge
@@ -230,20 +233,21 @@ Object.keys(post).forEach((k) => {
   map += K.scentWisps({ x: x + 2, y: y - (k === 'PA' ? 64 : k === 'LPY' ? 56 : 40), count: n, h: k === 'TSS' ? 34 : 46, color: col, seed: x });
 });
 // TSS is below Strong: its wisps droop — add a little cracked stamp
-// tiny diorama cats: Pon guarding the gatepost, Daifuku loafing on his wall, Goma prowling the Den's edge
+// tiny diorama cats: Pon guarding the gatepost, Daifuku loafing on his wall, Togemaru prowling the Den's edge
 map += K.cat({ ...CREW.pon.cat, pose: 'front-sit', x: 354, y: 424, scale: 0.4, lw: 2 });
 map += K.cat({ ...K.CAST.daifuku, pose: 'loaf', outline: 'sage', x: 980, y: 232, scale: 0.62, lw: 2 });
-map += K.cat({ ...GOMA, pose: 'side-walk', outline: 'sage', x: 1196, y: 314, scale: 0.42, flip: true, lw: 2 });
+map += K.cat({ ...TOGE, pose: 'side-walk', outline: 'sage', x: 1196, y: 314, scale: 0.42, flip: true, lw: 2 });
 // Mikan, home: a tiny cat on Haru's wall in the lit window's warmth
 map += K.cat({ ...K.CAST.mikan, pose: 'loaf', x: 230, y: 668, scale: 0.36, lw: 2 });
 
-/* ---------- the raid forecast: a paw-print trail from Goma down to the Tofu Shop Step post ---------- */
+/* ---------- the raid forecast: a paw-print trail from Togemaru down to the Tofu Shop Step post ---------- */
 const trail = [[1180, 330], [1210, 380], [1214, 430], [1180, 476], [1140, 500]];
 let paws = ''; const tp = K.blob(trail, false);
 for (let i = 0; i < 6; i++) { const t = (i + 0.5) / 6, idx = t * (trail.length - 1), a = trail[Math.floor(idx)], b = trail[Math.min(trail.length - 1, Math.floor(idx) + 1)], f = idx % 1; const x = a[0] + (b[0] - a[0]) * f + (i % 2 ? 9 : -9), y = a[1] + (b[1] - a[1]) * f; const ang = Math.atan2(b[1] - a[1], b[0] - a[0]) * 180 / Math.PI + 90; paws += `<g transform="translate(${x} ${y}) rotate(${ang}) scale(0.8)">${K.ui.paw({ size: 40, fill: '#A8C878', stroke: '#33273B' }).replace(/<svg[^>]*>/, '').replace('</svg>', '')}</g>`; }
 map += `<g>${paws}</g>`;
 map += `<path d="M1150 494l-26 12l8 -26z" fill="${C.sage}" stroke="${C.ink}" stroke-width="2.5" stroke-linejoin="round"/>`;
 
+map += RV.storm({ x: 1288, y: 330, s: 0.42 });
 /* ---------- the heart-link: Hige (carried) ♥ Pon (posted) — bonded Sentries, +1 Loyalty each night ---------- */
 map += `<path d="M1040 420Q700 330 372 380" fill="none" stroke="${C.cream}" stroke-width="10" stroke-linecap="round" opacity="0.9"/><path d="M1040 420Q700 330 372 380" fill="none" stroke="${C.crimson}" stroke-width="5" stroke-dasharray="1 13" stroke-linecap="round"/>`;
 
@@ -275,11 +279,12 @@ ui += `<div class="k-abs k-panel k-panel--sm tb-sentries"><span class="k-small">
 // Patch stamps
 const wisps = (n, col) => K.ui.wispRow({ n, color: col || C.gold, size: 30 });
 const stamp = (x, y, html, cls) => `<div class="stamp ${cls || ''}" style="left:${x}px;top:${y}px">${html}</div>`;
-ui += stamp(930, 128, `<div class="nm">${brickIco(30)}Den: Daifuku’s Wall</div><div class="rw">${wisps(3, C.sage)}<span class="num">88</span><span class="chip" style="height:36px;background:${C.cream}">Open</span></div>`, 'den');
-ui += stamp(200, 166, `<div class="nm">${bellIco(28)}Laundry Pole Yard${shieldIco(30)}</div><div class="rw">${wisps(3)}<span class="num">72</span><span class="fish">${fishIco(30)}10</span></div>`);
-ui += stamp(700, 586, `<div class="nm">${bellIco(28)}Persimmon Alley${shieldIco(30)}</div><div class="rw">${wisps(3)}<span class="num">66</span><span class="fish">${fishIco(30)}12</span></div>`);
+const mini = (x, y, ico, n, num, col, extra) => stamp(x, y, `<div class="rw" style="margin-top:0">${ico}${wisps(n, col)}<span class="num">${num}</span>${extra || ''}</div>`, 'mini');
+ui += mini(872, 130, brickIco(30), 3, 88, C.sage, `<span class="chip" style="height:36px;background:${C.cream}">Open</span>`);
+ui += mini(240, 444, bellIco(28), 3, 72);
+ui += mini(772, 596, bellIco(28), 3, 66);
+ui += mini(410, 640, bellIco(28), 4, 91, C.gold, `<span class="chip" style="height:36px">Home</span>`);
 ui += stamp(1176, 596, `<div class="nm">${bellIco(28)}Tofu Shop Step${shieldIco(30)}</div><div class="rw">${wisps(2)}<span class="num">54</span><span class="crack">${K.ui.wispRow({ n: 1, max: 1, color: C.cream, size: 24 })}raidable</span></div>`, 'sel');
-ui += stamp(380, 498, `<div class="nm">${bellIco(28)}Low Wall Corner</div><div class="rw">${wisps(4)}<span class="num">91</span><span class="fish">${fishIco(30)}8</span><span class="chip" style="height:36px">Home</span></div>`);
 // Den-open shields on the held outer Patches
 
 
@@ -287,25 +292,25 @@ ui += stamp(380, 498, `<div class="nm">${bellIco(28)}Low Wall Corner</div><div c
 const peg = (rot) => `<svg width="22" height="44" viewBox="0 0 22 44" style="position:absolute;left:50%;top:-30px;margin-left:-11px;transform:rotate(${rot || 0}deg)"><path d="M3 2h16v30q0 8 -8 10q-8 -2 -8 -10z" fill="#D8B27E" stroke="${C.ink}" stroke-width="2.5"/><path d="M11 4v34" stroke="${C.ink}" stroke-width="2"/><rect x="2" y="14" width="18" height="6" rx="2" fill="#9AA6B0" stroke="${C.ink}" stroke-width="2"/></svg>`;
 ui += at(374, 312, `<div style="position:relative">${portrait(CREW.pon.cat, 92, C.gold)}${peg(-6)}<div style="position:absolute;right:-16px;bottom:-6px">${pIcon('Goofball', 40)}</div></div>`);
 // Keeper of the Den and the raider
-ui += at(1116, 132, `<div style="position:relative">${portrait({ ...K.CAST.daifuku, scale: 0.86, y: 98 }, 76, '#7FA34A')}</div>`);
-ui += at(1222, 340, `<div style="position:relative">${portrait({ ...GOMA }, 80, '#7FA34A')}<div style="position:absolute;left:-118px;top:16px" class="crack">${moonIco(26)}tonight</div></div>`);
+ui += at(1100, 128, `<div style="position:relative">${portrait({ ...K.CAST.daifuku, scale: 0.86, y: 98 }, 72, '#7FA34A')}</div>`);
+ui += at(1222, 340, `<div style="position:relative">${portrait(TOGE, 80, '#7FA34A')}<div style="position:absolute;left:-118px;top:16px" class="crack">${moonIco(26)}tonight</div></div>`);
 // the carried Hige, tilted, with the paw cursor
 ui += at(990, 330, `<div style="position:relative;transform:rotate(-9deg)">${portrait(CREW.hige.cat, 124, C.gold)}<div style="position:absolute;right:-14px;bottom:2px">${pIcon('Stalwart', 46)}</div></div>`);
 ui += at(1090, 418, K.ui.paw({ size: 54, fill: C.gold }), '', 'transform:rotate(-20deg)');
 // the heart on the link, mid-way
-ui += at(672, 340, `<div style="display:flex;align-items:center;gap:6px;background:${C.cream};border:3px solid ${C.cocoa};border-radius:22px;padding:3px 12px 3px 6px;box-shadow:var(--drop);font:800 28px/1 var(--font);color:${C.crimson}">${heartIco(30)}+1</div>`);
+ui += at(680, 336, `<div style="display:flex;align-items:center;justify-content:center;width:52px;height:52px;background:${C.cream};border:3px solid ${C.cocoa};border-radius:50%;box-shadow:var(--drop)">${heartIco(34)}</div>`);
 
 /* ---------- side panel: the selected Patch + the drop preview ---------- */
 ui += `<div class="k-abs k-panel side">
   <div class="hd">${post.TSS ? `<svg width="58" height="58" viewBox="1080 494 60 60" style="flex:none">${post.TSS(1108, 548)}</svg>` : ''}<div><div class="k-h">Tofu Shop Step</div><div style="display:flex;gap:8px;margin-top:8px"><span class="chip">${bellIco(26)}Yours</span><span class="chip">Back Door</span></div></div></div>
   <div class="row"><span class="lab">Scent</span>${wisps(2)}<div class="scentbar"><i></i><u></u></div><span class="num">54</span></div>
   <div class="row" style="margin-top:-4px;padding-left:64px;color:var(--cocoa);white-space:nowrap">Strong at 60<span style="flex:1"></span><span class="chip">${shieldIco(28)}Den open</span></div>
-  <div class="row"><span class="lab">Tonight</span>${portrait(GOMA, 60, '#7FA34A')}<span style="font-weight:800">Goma</span>${K.ui.paw({ size: 30, fill: C.sage })}<span class="chip">motive ?</span></div>
+  <div class="row"><span class="lab">Tonight</span>${portrait(TOGE, 60, '#7FA34A')}<span class="k-ribbon k-ribbon--sage" style="height:40px">Togemaru</span><span class="chip">?</span></div>
   <div class="row"><span class="lab">Tribute</span>${fishIco(34)}<span class="num">13</span><span style="color:var(--cocoa)">tomorrow</span></div>
   <div class="preview" style="margin-top:14px"><span class="k-ribbon k-ribbon--gold tag" style="height:40px;font-size:28px">Post here?</span>
-    <div class="row" style="margin-top:10px">${portrait(CREW.hige.cat, 70, C.gold)}<div><div style="font:800 32px/1 var(--font)">Hige</div><div style="display:flex;gap:6px;align-items:center;margin-top:4px;color:var(--cocoa)">${pIcon('Stalwart', 32)}Stalwart · Anchor</div></div></div>
+    <div class="row" style="margin-top:10px">${portrait(CREW.hige.cat, 70, C.gold)}<div><span class="k-ribbon k-ribbon--gold" style="height:40px">Hige</span><div style="display:flex;gap:6px;align-items:center;margin-top:4px;color:var(--cocoa)">${pIcon('Stalwart', 32)}Stalwart · Anchor</div></div></div>
     <div class="row">Holds like a wall.</div>
-    <div class="row"><span class="fit">${[1, 1, 1, 1, 0].map((f) => K.ui.paw({ size: 28, fill: f ? C.gold : C.recessed })).join('')}</span><span>Good vs Goma</span></div>
+    <div class="row"><span class="fit">${[1, 1, 1, 1, 0].map((f) => K.ui.paw({ size: 28, fill: f ? C.gold : C.recessed })).join('')}</span><span>Good vs Togemaru</span></div>
     <div class="row">${heartIco(30)}<span>Pon at Laundry Pole Yard</span></div>
   </div>
   <div style="display:flex;gap:12px;margin-top:auto"><span class="k-btn k-btn--confirm" style="padding:0 22px">${K.ui.faceButtons({ size: 40, lit: 's' })}&nbsp;Post Hige</span><span class="k-btn" style="padding:0 18px">${K.ui.faceButtons({ size: 40, lit: 'e' })}&nbsp;Back</span></div>
@@ -314,24 +319,22 @@ ui += `<div class="k-abs k-panel side">
 /* ---------- the Crew on the clothes-line ---------- */
 const crewCard = (x, key, status, cls, rot) => { const c = CREW[key], ghost = cls === 'ghost';
   const pill = status === 'posse' ? `<span class="pill-s posse">${bellIco(26)}Posse</span>` : status === 'posted' ? `<span class="pill-s posted">Posted</span>` : `<span class="pill-s carry">Carrying</span>`;
-  return `<div class="crew ${cls || ''}" style="left:${x}px;transform:rotate(${rot || 0}deg)"><div class="card" style="position:relative">${peg(0)}${ghost ? `<div style="width:84px;height:84px;flex:none;display:flex;align-items:center;justify-content:center;opacity:.5">${K.ui.paw({ size: 50, fill: C.recessed })}</div>` : `<div style="flex:none">${portrait(c.cat, 84, status === 'posse' ? C.gold : C.cocoa)}</div>`}<div class="tx"><div class="nm">${ghost ? 'Hige' : c.name}</div>${ghost ? '' : `<div class="pers" style="display:flex;align-items:center;gap:4px">${pIcon(c.pers, 30)}${c.pers}</div>`}<div class="st">${pill}</div></div></div></div>`; };
+  return `<div class="crew ${cls || ''}" style="left:${x}px;transform:rotate(${rot || 0}deg)"><div class="card" style="position:relative">${peg(0)}${ghost ? `<div style="width:84px;height:84px;flex:none;display:flex;align-items:center;justify-content:center;opacity:.5">${K.ui.paw({ size: 50, fill: C.recessed })}</div>` : `<div style="flex:none">${portrait(c.cat, 84, status === 'posse' ? C.gold : C.cocoa)}</div>`}<div class="tx"><span class="k-ribbon ${ghost ? 'k-ribbon--stray' : 'k-ribbon--gold'}" style="height:38px;font-size:28px;padding:0 26px 0 14px">${ghost ? 'Hige' : c.name}</span>${ghost ? '' : `<div class="pers" style="display:flex;align-items:center;gap:4px">${pIcon(c.pers, 30)}${c.pers}</div>`}<div class="st">${pill}</div></div></div></div>`; };
 ui += crewCard(30, 'hige', 'carry', 'ghost', -2);
-ui += crewCard(294, 'pon', 'posted', '', 1.5);
-ui += crewCard(558, 'kagi', 'posse', '', -1);
-ui += crewCard(822, 'kinako', 'posse', '', 2);
-ui += crewCard(1086, 'toge', 'posse', '', -1.5);
+ui += crewCard(352, 'kagi', 'posse', '', 1.5);
+ui += crewCard(674, 'kinako', 'posse', '', -1);
+ui += crewCard(996, 'pon', 'posted', '', 2);
 // social marks between neighbours on the line
 const mark = (x, html) => at(x, 834, `<div style="background:${C.cream};border-radius:50%;padding:3px;box-shadow:var(--drop)">${html}</div>`);
-ui += mark(524, heartIco(32)) + mark(788, heartIco(32)) + mark(1050, clawX(34));
-// Togemaru: a Lesson is ready ("!")
-ui += at(1080, 852, `<span class="k-btn k-btn--focus" style="min-width:44px;height:44px;padding:0;font-size:28px">!</span>`);
+ui += mark(296, clawX(34)) + mark(618, heartIco(32)) + mark(940, heartIco(32));
 
 // footer: tomorrow's Tribute
 ui += `<div class="k-abs k-panel foot">
   <div class="eq"><small>Tomorrow</small>${fishIco(38)}43 <small>− upkeep</small>4 <small>=</small> <span style="color:var(--cocoa)">39</span></div>
   <div class="eq"><small>Stash</small>${fishIco(34)}128<span style="flex:1"></span><span class="chip">${bellIco(26)}4 / 5 Patches</span></div>
 </div>`;
-ui += `<div class="k-abs hints"><span><span class="k-btn k-key">S</span>Pick up</span><span><span class="k-btn k-key">N</span>Cat card</span><span><span class="k-btn k-key">W</span>Unpost</span><span><span class="k-btn k-key">V</span>Legend</span><span><span class="k-btn k-key">E</span>Leave</span></div>`;
+const fb = (l) => K.ui.faceButtons({ size: 44, lit: l });
+ui += `<div class="k-abs hints"><span>${fb('s')}Pick up</span><span>${fb('n')}Cat card</span><span>${fb('w')}Unpost</span><span><span class="k-btn k-key" style="min-width:64px;font-size:22px">View</span>Legend</span><span>${fb('e')}Leave</span></div>`;
 
 document.getElementById('stage').innerHTML = K.svg(W, H, s.join(''), 'class="k-world"') + ui;
 </script>

diff --git a/design/previews/09-tribute-doorstep.html b/design/previews/09-tribute-doorstep.html
@@ -22,6 +22,7 @@
 <body>
 <div class="k-stage" id="stage"></div>
 <script src="kit/kit.js"></script>
+<script src="rival-helpers.js"></script>
 <script>
 /* FRAME 09 — TRIBUTE AT THE DOORSTEP. Life 2, Morning. Home camera at its upper (threshold) values,
  * low in the lane outside Haru's low garden wall, looking in through the gate. Mikan sits on the
@@ -182,7 +183,7 @@ ui += `<div class="k-abs sniff">
   <div class="card">${K.ui.icon({ name: 'fish', size: 58 })}<span class="lab">Doorstep pile</span><span style="flex:1"></span><span class="big">× 39</span><span class="pop">+3</span></div>
   <div class="card"><span class="lab">Raid</span><span style="display:inline-flex;align-items:center;gap:6px;padding:4px 14px 4px 6px;border:3px solid var(--cocoa);border-radius:20px;background:var(--recessed);font-size:28px">${K.ui.icon({ name: 'bell', size: 30 })}Tofu Shop Step</span>
     <svg width="64" height="34" viewBox="0 0 64 34"><path d="M60 17H14" stroke="${C.ink}" stroke-width="5" stroke-linecap="round"/><path d="M20 6L4 17L20 28Z" fill="${C.sage}" stroke="${C.ink}" stroke-width="3" stroke-linejoin="round"/></svg>
-    ${K.ui.portrait({ cat: { coat: 'charcoal', pattern: 'tabby', ears: 'tall', eye: 'yellowgreen', expr: 'angry', scars: ['notch'] }, size: 64, ring: '#7FA34A' })}<span class="night">tonight</span></div>
+    ${K.ui.portrait({ cat: { ...RV.CAST.togemaru, expr: 'angry' }, size: 64, ring: '#7FA34A' })}<span class="night">tonight</span></div>
 </div>`;
 // tally pops over the new arrivals
 ui += `<div class="bub gold" style="left:${pn[0] - 210}px;top:${pn[1] - 150}px">${K.ui.icon({ name: 'fish', size: 36 })}+3</div>`;

diff --git a/design/previews/gallery.html b/design/previews/gallery.html
@@ -136,7 +136,7 @@ code { font-family: ui-monospace, Menlo, Consolas, monospace; font-size: .9em; }
     <p class="intro">Every day ends at home. The owner's story is told only by what you can see and hear from the floor: who is in the room, what has moved, and whether the piano piece gets past the bar where it always stalls.</p>
     <figure>
       <img src="10-home-evening.png" alt="A warm lamplit wooden room at dusk seen from cat height: the owner sits at an upright piano, visible as legs, hands and the hem of a yellow cardigan with her face out of frame, and Mikan is in the foreground on the floorboards." loading="lazy">
-      <figcaption><b>Evening at the piano</b><span>Haru practises; her face stays out of frame. Nothing on screen translates what the humans say, and there is almost no HUD.</span></figcaption>
+      <figcaption><b>Evening at the piano</b><span>Haru stops mid-piece, one hand still on the keys, and reaches down for Mikan. Her face stays out of frame. Nothing on screen translates what the humans say, and there is almost no HUD.</span></figcaption>
     </figure>
   </section>
 
